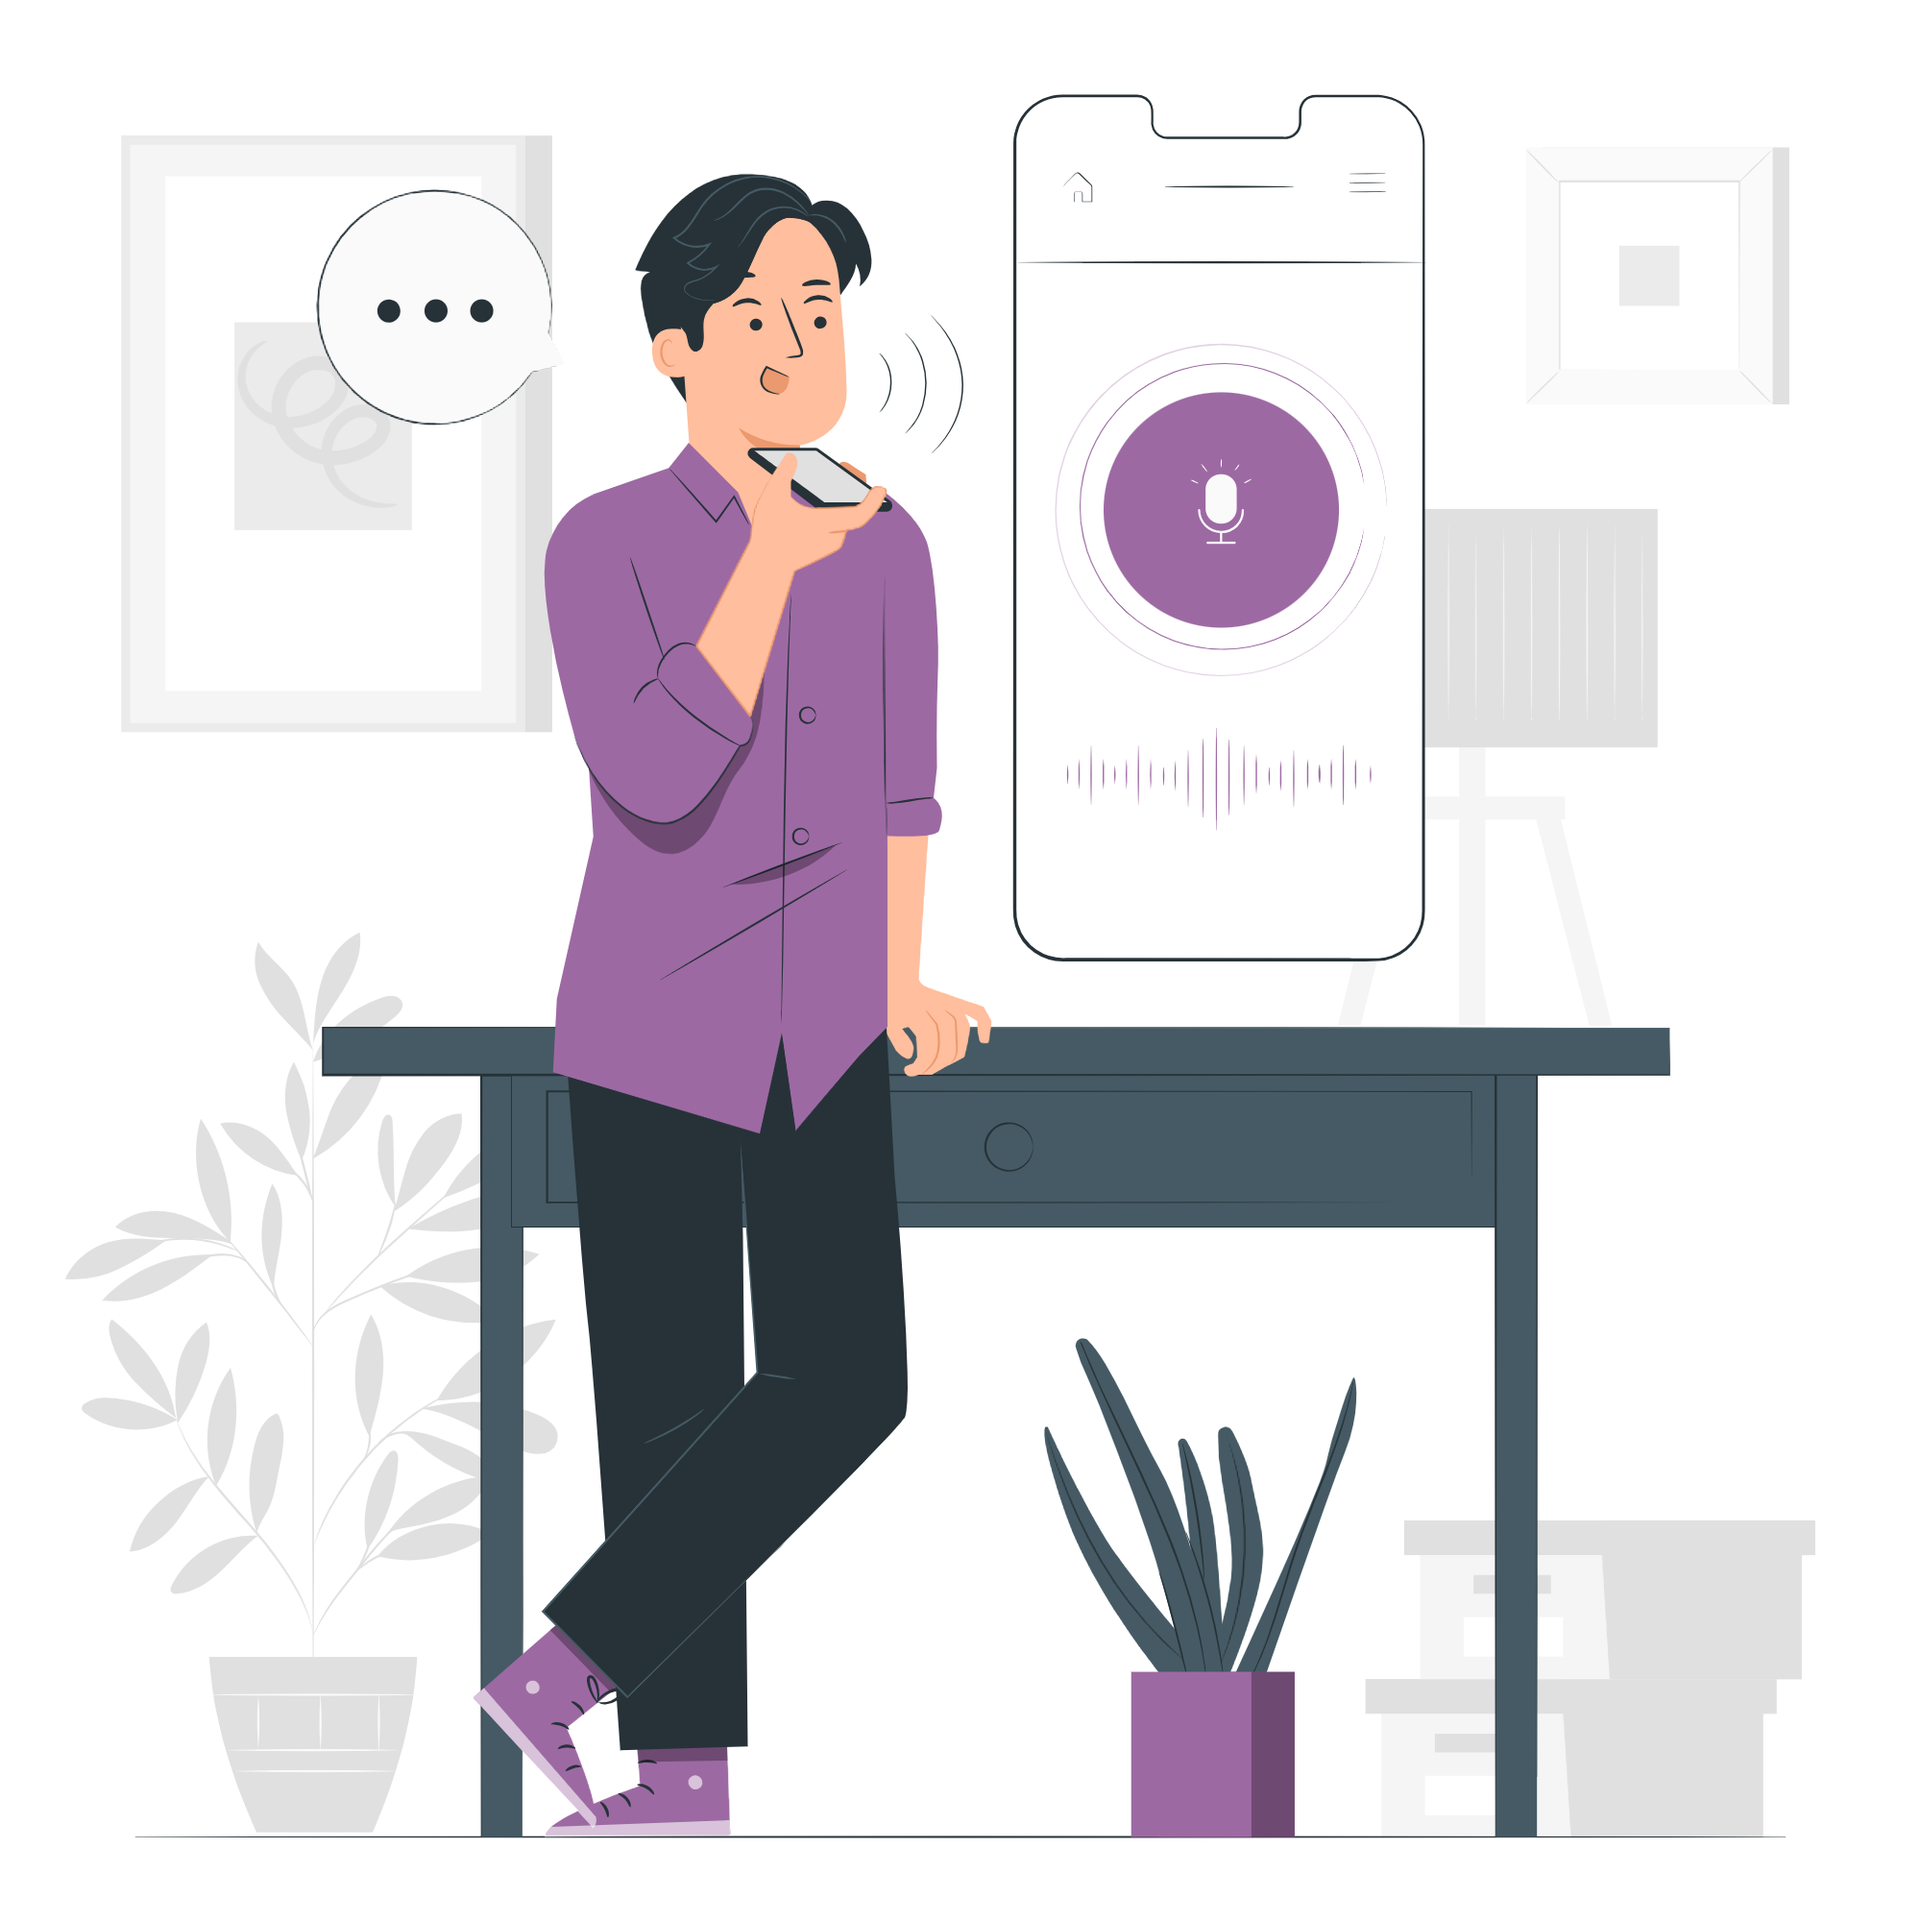
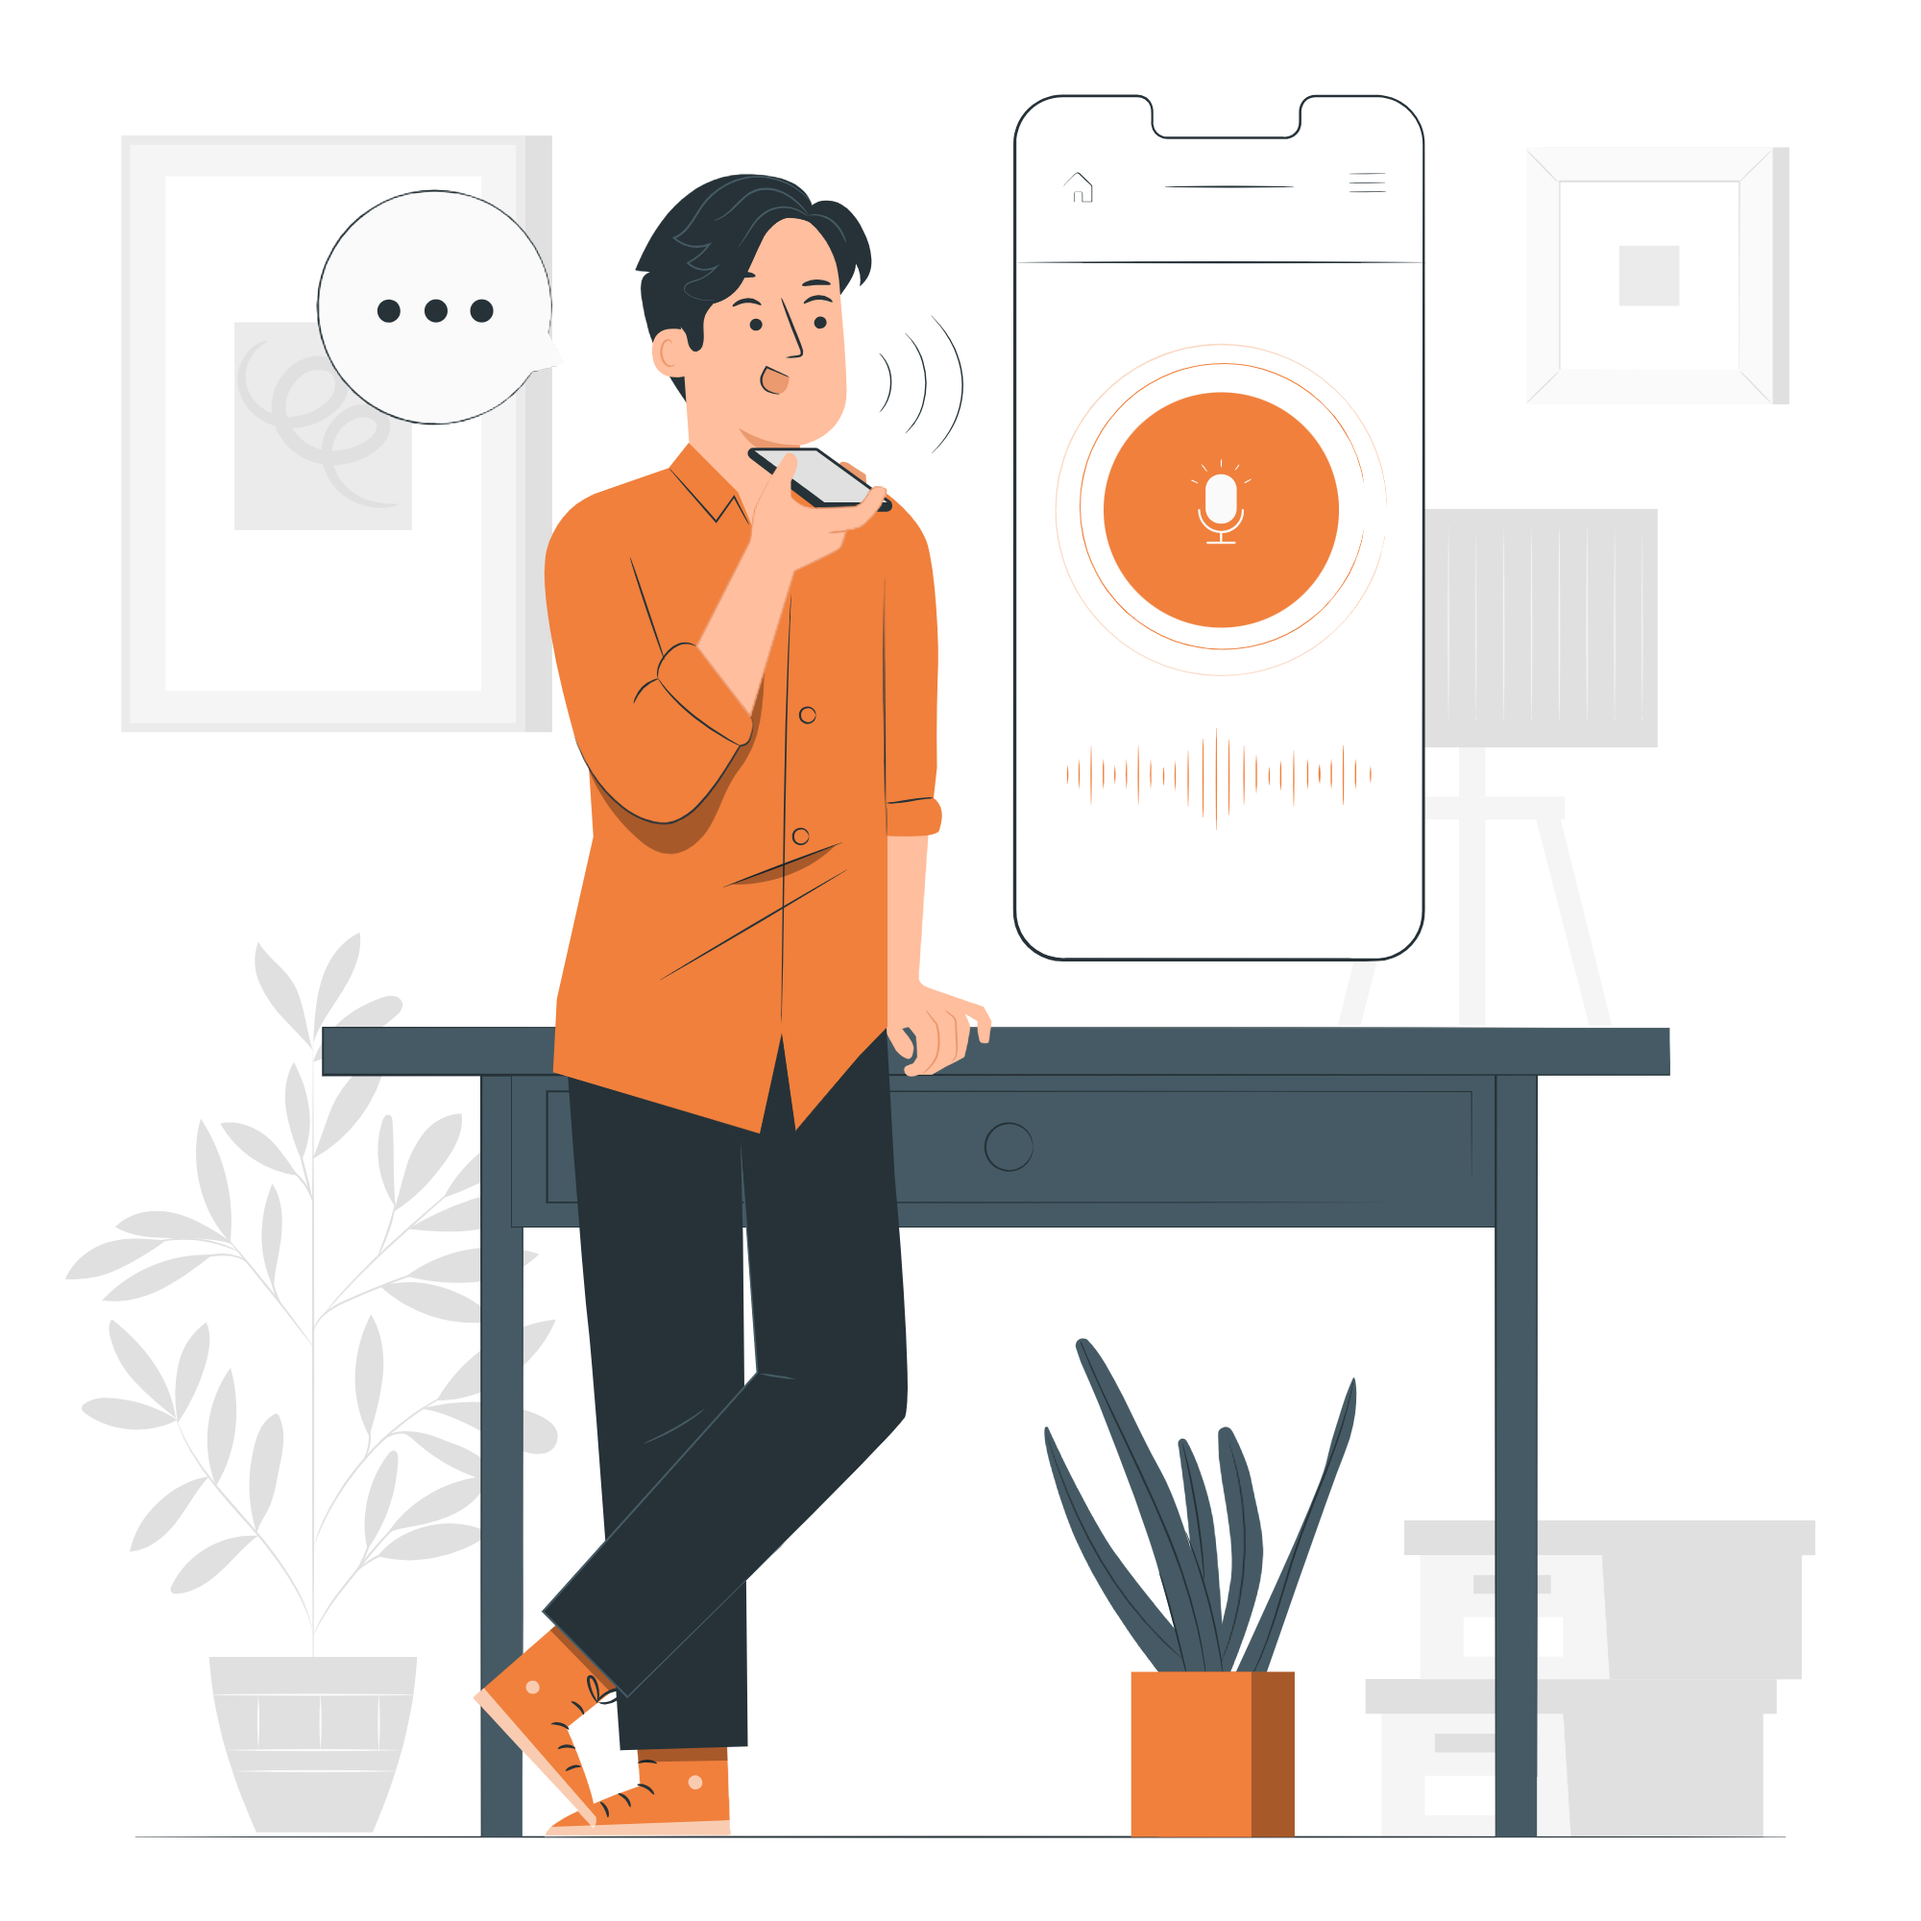
cambiata palette colori

diff --git a/lib/main.dart b/lib/main.dart
@@ -36,6 +36,7 @@ class RootPage extends StatefulWidget {
 
 class _RootPageState extends State<RootPage> {
   int currentPage = 0;
+  bool isRegistraActive = true;
   List<Widget> pages = const [
     Registra(),
     MyNotes()
@@ -47,16 +48,16 @@ class _RootPageState extends State<RootPage> {
       body: pages[currentPage],
       bottomNavigationBar: BottomNavigationBar(
         backgroundColor: const Color(0xFFF7F9F9),
-        items: const [
+        items: [
           BottomNavigationBarItem(
-            icon: Icon(
-              Icons.mic,
-            ),
+            icon: Icon(isRegistraActive ? Icons.mic : Icons.mic_none),
             label: "Registra",
           ),
           BottomNavigationBarItem(
             icon: Icon(
-              Icons.library_books,
+              isRegistraActive
+                  ? Icons.library_books_outlined
+                  : Icons.library_books,
             ),
             label: "Le mie note",
           ),
@@ -64,11 +65,13 @@ class _RootPageState extends State<RootPage> {
         onTap: (int index) {
           setState(() {
             currentPage = index;
+            //se l'index è 0 allora mi trovo su Registra
+            isRegistraActive = index == 0;
           });
         },
         currentIndex: currentPage,
         selectedItemColor: const Color(
-            0xFF9d69a3), // Colore dell'icona della pagina selezionata
+            0xFF225560), // Colore dell'icona della pagina selezionata
         unselectedItemColor: Colors.black87, // Colore delle altre icone
       ),
     );

diff --git a/lib/info.dart b/lib/info.dart
@@ -34,7 +34,7 @@ class _InfoState extends State<Info> {
             width: 40,
             height: 40,
             decoration: const BoxDecoration(
-              color: Color(0xFF9d69a3),
+              color: Color(0xFFF0803C),
               borderRadius: BorderRadius.all(
                 Radius.circular(5),
               ),
@@ -44,7 +44,7 @@ class _InfoState extends State<Info> {
                 toggleExpanded(index);
               },
               icon: Icon(isExpanded[index] ? Icons.remove : Icons.add),
-              color: const Color(0xFFedf6f9),
+              color: Colors.white,
             ),
           ),
         ),
@@ -58,7 +58,7 @@ class _InfoState extends State<Info> {
               child: Text(
                 sottoParagrafo,
                 style:
-                    const TextStyle(fontSize: 16.0, color: Color(0xFF9d69a3)),
+                    const TextStyle(fontSize: 16.0, color: Color(0xFF225560)),
               ),
             ),
           ),
@@ -76,7 +76,7 @@ class _InfoState extends State<Info> {
   Widget build(BuildContext context) {
     return Scaffold(
       appBar: AppBar(
-        backgroundColor: const Color(0xFF9d69a3),
+        backgroundColor: const Color(0xFF225560),
         title: const Text(
           "Informazioni",
           style: TextStyle(color: Colors.white, fontWeight: FontWeight.bold),

diff --git a/lib/my_notes.dart b/lib/my_notes.dart
@@ -83,7 +83,7 @@ class _MyNotesState extends State<MyNotes> {
               child: const Text(
                 "No",
                 style: TextStyle(
-                  color: Color(0xFF9d69a3),
+                  color: Color(0xFF225560),
                 ),
               ),
             ),
@@ -95,7 +95,7 @@ class _MyNotesState extends State<MyNotes> {
               child: const Text(
                 "Si",
                 style: TextStyle(
-                  color: Color(0xFF9d69a3),
+                  color: Color(0xFF225560),
                 ),
               ),
             ),
@@ -109,7 +109,7 @@ class _MyNotesState extends State<MyNotes> {
   Widget build(BuildContext context) {
     return Scaffold(
       appBar: AppBar(
-        backgroundColor: const Color(0xFF9d69a3),
+        backgroundColor: const Color(0xFF225560),
         automaticallyImplyLeading: false,
         title: const Text(
           "Le mie note",
@@ -185,7 +185,7 @@ class _MyNotesState extends State<MyNotes> {
         ),
       ),
       floatingActionButton: FloatingActionButton(
-        backgroundColor: const Color(0xFF9d69a3),
+        backgroundColor: const Color(0xFFF0803C),
         shape: RoundedRectangleBorder(borderRadius: BorderRadius.circular(10)),
         onPressed: () {
           Navigator.push(

diff --git a/lib/registra.dart b/lib/registra.dart
@@ -70,7 +70,7 @@ class _RegistraState extends State<Registra> {
               },
               child: const Text(
                 "No",
-                style: TextStyle(color: Color(0xFF9d69a3)),
+                style: TextStyle(color: Color(0xFF225560)),
               ),
             ),
             TextButton(
@@ -100,7 +100,7 @@ class _RegistraState extends State<Registra> {
   Widget build(BuildContext context) {
     return Scaffold(
       appBar: AppBar(
-        backgroundColor: const Color(0xFF9d69a3),
+        backgroundColor: const Color(0xFF225560),
         automaticallyImplyLeading: false,
         title: const Text(
           "Talk and Text Editor",
@@ -155,7 +155,7 @@ class _RegistraState extends State<Registra> {
                     child: ElevatedButton(
                       onPressed: _startListening,
                       style: ElevatedButton.styleFrom(
-                        backgroundColor: const Color(0xFF9d69a3),
+                        backgroundColor: const Color(0xFF225560),
                         fixedSize: const Size(170, 100),
                       ),
                       child: const Text(

diff --git a/lib/nota.dart b/lib/nota.dart
@@ -83,7 +83,7 @@ class _NotaState extends State<Nota> {
     return Scaffold(
       backgroundColor: const Color(0xFFedf6f9),
       appBar: AppBar(
-        backgroundColor: const Color(0xFF9d69a3),
+        backgroundColor: const Color(0xFF225560),
         title: const Text(
           "Nota",
           style: TextStyle(fontWeight: FontWeight.bold),
@@ -102,7 +102,7 @@ class _NotaState extends State<Nota> {
         ),
       ),
       floatingActionButton: FloatingActionButton(
-        backgroundColor: const Color(0xFF9d69a3),
+        backgroundColor: const Color(0xFFF0803C),
         shape: RoundedRectangleBorder(borderRadius: BorderRadius.circular(10)),
         onPressed: () {
           _salvaNota();
